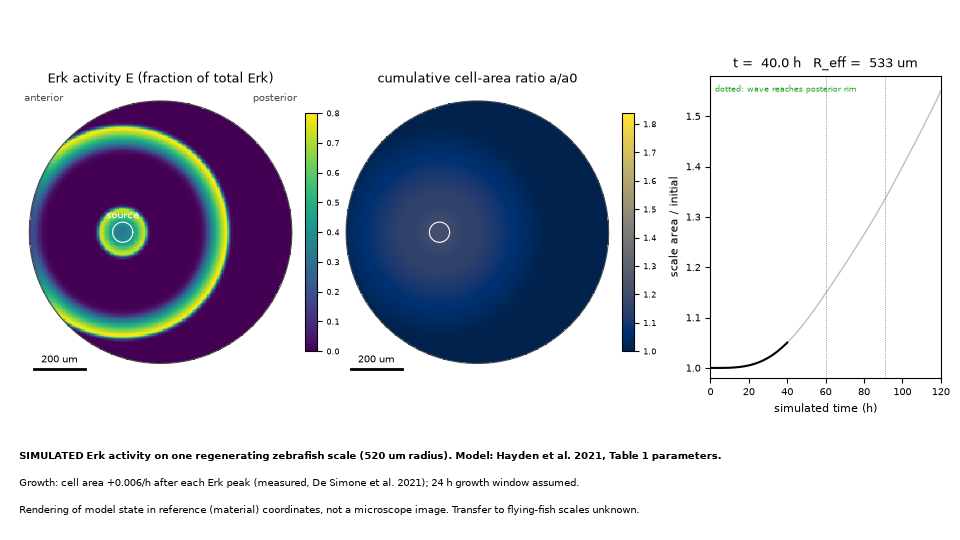
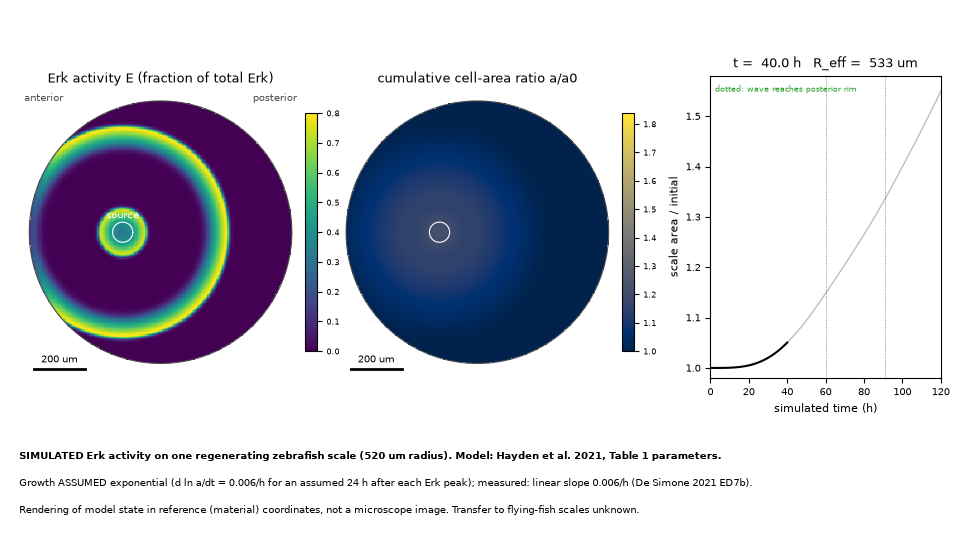
Scale S1: label the exponential growth coupling ASSUMED; cite the measured linear slope separately
Independent review of 4153229: De Simone 2021 Extended Data Fig. 7b measures a
LINEAR slope of normalised cell area after the Erk peak, d(a/a_peak)/dt =
0.006 +/- 0.002 per h. The code integrates d ln(a)/dt = 0.006 per h, i.e.
exponential growth that uses that slope as a log-rate. That coupling form is
ours and is now labelled ASSUMED everywhere:

- sources.json: two rows, growth.measured_linear_slope_per_h (measured,
  ED Fig. 7b) and growth.rate_after_peak_per_h (assumed log-rate).
- receipt.json: new growth_coupling block (measured vs assumed, per-window
  factor 1.155 exponential vs 1.144 if linear).
- erk_wave.py docstring, docs/scales.md, and the caption burned into every
  video frame.

Numerics unchanged and not tuned: states.npz is byte-identical (ea8f41f8abd7),
summary, measured comparison and controls are identical to 4153229. The
rise-time miss (1.2 h vs ~3 h) and the synchronous-growth miss (x2.05 vs
x1.55, measured impairment not reproduced) are preserved. Media regenerated
only for the caption: mp4 b10d8fb873dd, gif 762338c38b7e, poster 38e5534f315e.

Checks: python -m engineering.scales.run exit 0; pytest --noconftest
tests/test_scales.py 7 passed (now also asserts the two status rows). Runs
under systemd-run TasksMax=128 MemoryMax=4G MemorySwapMax=0.

Tested on branch work/fish-scale-growth at parent 4153229

Changed region(s): [[0.0625, 0.8889, 0.7812, 0.9185]]

diff --git a/studio/engineering/scales/erk_wave.py b/studio/engineering/scales/erk_wave.py
@@ -13,12 +13,14 @@ scale disc, all species 0 at t = 0, as in the paper's Methods.  This file is an 
 no code was copied from the authors' GPL repository.
 
 Growth (De Simone et al. 2021, Nature 590:129, doi 10.1038/s41586-020-03085-8): during the hypertrophic phase
-osteoblasts barely divide and grow in area after the Erk peak passes.  Their Extended Data caption gives the
-normalised cell-area slope after the peak as 0.006 +/- 0.002 per h (before the peak -0.002 +/- 0.002 per h,
-n = 89 cells, 3 scales).  The growth LAW here is ours: each cell's log-area rises at that measured rate for a
-window W after each time its Erk crosses up through E_peak_threshold.  W is ASSUMED (the paper does not give it
-in its text).  Growth is one-way: the wave field is computed in material (Lagrangian) coordinates and growth
-does not feed back on the waves.
+osteoblasts barely divide and grow in area after the Erk peak passes.  MEASURED: Extended Data Fig. 7b fits a
+LINEAR slope to normalised cell area after the peak, d(a/a_peak)/dt = 0.006 +/- 0.002 per h (before the peak
+-0.002 +/- 0.002 per h; n = 89 cells, 3 scales).
+ASSUMED (ours): the coupling form.  This code integrates d ln(a)/dt = 0.006 per h, i.e. EXPONENTIAL growth that
+uses the measured linear slope as a log-rate, for a window W (ASSUMED, 24 h) after each time a cell's Erk crosses
+up through E_peak_threshold, compounding over successive waves.  Over one 24 h window the two forms differ by
+1.155 (exponential) vs 1.144 (linear) per window; that difference was not tuned or corrected.  Growth is
+one-way: the wave field is computed in material (Lagrangian) coordinates and growth does not feed back on it.
 """
 from __future__ import annotations
 
@@ -63,7 +65,8 @@ class Geometry:
 
 @dataclass(frozen=True)
 class Growth:
-    rate_after_peak_per_h: float = 0.006   # MEASURED, De Simone 2021 Extended Data (normalised cell area slope)
+    rate_after_peak_per_h: float = 0.006   # used as d ln(a)/dt: ASSUMED exponential form; the value is the MEASURED
+    #                                        linear slope of normalised cell area (De Simone 2021 Ext. Data Fig. 7b)
     window_h: float = 24.0                 # ASSUMED: growth lasts this long after each Erk peak
     peak_threshold: float = 0.2            # Hayden 2021 Methods scores an event at Erk prominence > 0.2
 

diff --git a/studio/engineering/scales/run.py b/studio/engineering/scales/run.py
@@ -135,6 +135,15 @@ def main(argv=None) -> int:
         "schema": "frontier.scales.receipt/1",
         "evidence_kind": "SimulationResult (not an observation; not a microscope image)",
         "model": "Hayden 2021 Erk trigger-wave reaction-diffusion + wave-gated hypertrophic growth (one scale)",
+        "growth_coupling": {
+            "measured": {"quantity": "linear slope of normalised cell area after the Erk peak, d(a/a_peak)/dt",
+                         "value_per_h": 0.006, "ci68_per_h": 0.002, "n": "89 cells, 3 scales",
+                         "source": "De Simone 2021 Extended Data Fig. 7b"},
+            "assumed": {"form": "exponential: d ln(a)/dt = 0.006 per h while t - t_last_peak <= 24 h, compounding",
+                        "window_h": 24.0, "status": "ASSUMED (form and window are ours)",
+                        "per_window_factor_exponential": float(np.exp(0.006 * 24)),
+                        "per_window_factor_if_linear": 1 + 0.006 * 24,
+                        "note": "not tuned: the area results are those of the assumed exponential form"}},
         "sources": src["sources"], "parameters": src["parameters"],
         "run": M.run_dict(run), "code_sha256": code_hash(), "summary": s,
         "measured_comparison": checks, "controls": ctl, "media": media, "files": files,

diff --git a/studio/engineering/scales/render.py b/studio/engineering/scales/render.py
@@ -25,7 +25,7 @@ LIMITS = {"mp4_max_bytes": 4_000_000, "gif_max_bytes": 6_000_000, "poster_max_by
 
 CAPTION = [
     "SIMULATED Erk activity on one regenerating zebrafish scale (520 um radius). Model: Hayden et al. 2021, Table 1 parameters.",
-    "Growth: cell area +0.006/h after each Erk peak (measured, De Simone et al. 2021); 24 h growth window assumed.",
+    "Growth ASSUMED exponential (d ln a/dt = 0.006/h for an assumed 24 h after each Erk peak); measured: linear slope 0.006/h (De Simone 2021 ED7b).",
     "Rendering of model state in reference (material) coordinates, not a microscope image. Transfer to flying-fish scales unknown.",
 ]
 

diff --git a/studio/tests/test_scales.py b/studio/tests/test_scales.py
@@ -24,6 +24,8 @@ def test_parameters_are_table1_and_every_one_has_a_status():
         assert table[k]["value"] == v, k
     assert {p["status"] for p in SRC["parameters"]} <= {"fitted-in-source", "from-source", "measured", "assumed", "unknown"}
     assert table["growth.rate_after_peak_per_h"]["value"] == M.Growth().rate_after_peak_per_h
+    assert table["growth.rate_after_peak_per_h"]["status"] == "assumed"      # exponential coupling form is ours
+    assert table["growth.measured_linear_slope_per_h"]["status"] == "measured"
     assert table["growth.window_h"]["status"] == "assumed"
 
 

diff --git a/studio/docs/scales.md b/studio/docs/scales.md
@@ -22,13 +22,20 @@ hours. Every parameter comes from their Table 1, and the numbers match the autho
 copied; it is GPL-3.0). The scale is a 520 µm disc on a 5 µm grid with a 0.01 h step. The simulation starts with
 every species at 0, and the domain edge absorbs activator.
 
-**Growth** (De Simone et al. 2021, *Nature* 590:129, doi 10.1038/s41586-020-03085-8): after the Erk peak, each
-cell's area grows at **0.006 ± 0.002 h⁻¹** (measured; Extended Data caption, n = 89 cells). The growth law is
-ours: a cell grows at that rate for **24 h (assumed)** after each of its own Erk peaks. The waves are computed
-in reference (material) coordinates, and growth does not feed back on them.
+**Growth** (De Simone et al. 2021, *Nature* 590:129, doi 10.1038/s41586-020-03085-8):
+- **Measured.** Extended Data Fig. 7b fits a **linear** slope to normalised cell area after the Erk peak:
+  d(a/a_peak)/dt = **0.006 ± 0.002 h⁻¹** (n = 89 cells, 3 scales).
+- **Assumed: the coupling form.** The code integrates **d ln a/dt = 0.006 h⁻¹**, which is **exponential** growth
+  that uses the measured linear slope as a log-rate. A cell grows this way for **24 h (assumed)** after each of its
+  own Erk peaks, and the growth compounds over successive waves.
+- Over one window the two forms give ×1.155 (exponential) against ×1.144 (linear). The area numbers below are
+  those of the assumed exponential form, and they have not been tuned.
+
+The waves are computed in reference (material) coordinates, and growth does not feed back on them.
 
 `engineering/scales/sources.json` marks every parameter `fitted-in-source`, `from-source`, `measured`,
-`assumed` or `unknown`.
+`assumed` or `unknown`. The measured linear slope (`growth.measured_linear_slope_per_h`) and the assumed
+log-rate the code uses (`growth.rate_after_peak_per_h`) are two separate rows.
 
 ## Results (`artifacts/scales/erk-wave/receipt.json`)
 
@@ -45,7 +52,8 @@ The bands were set from the papers' own wording before the run, and they stay as
 finding, not a failure of the code. One possible cause is the reporter: the measured value comes from an Erk
 KTR translocation reporter, which this model does not include. That cause is untested.
 
-Over 120 h the scale's area grows ×1.55 (effective radius 520 → 647 µm).
+Over 120 h the scale's area grows ×1.55 (effective radius 520 → 647 µm). That figure comes from the
+**assumed** exponential coupling and is not a measured growth curve.
 
 ## Controls (they set the exit code)
 - **no source:** E stays 0 everywhere and the area does not change. Pass.
